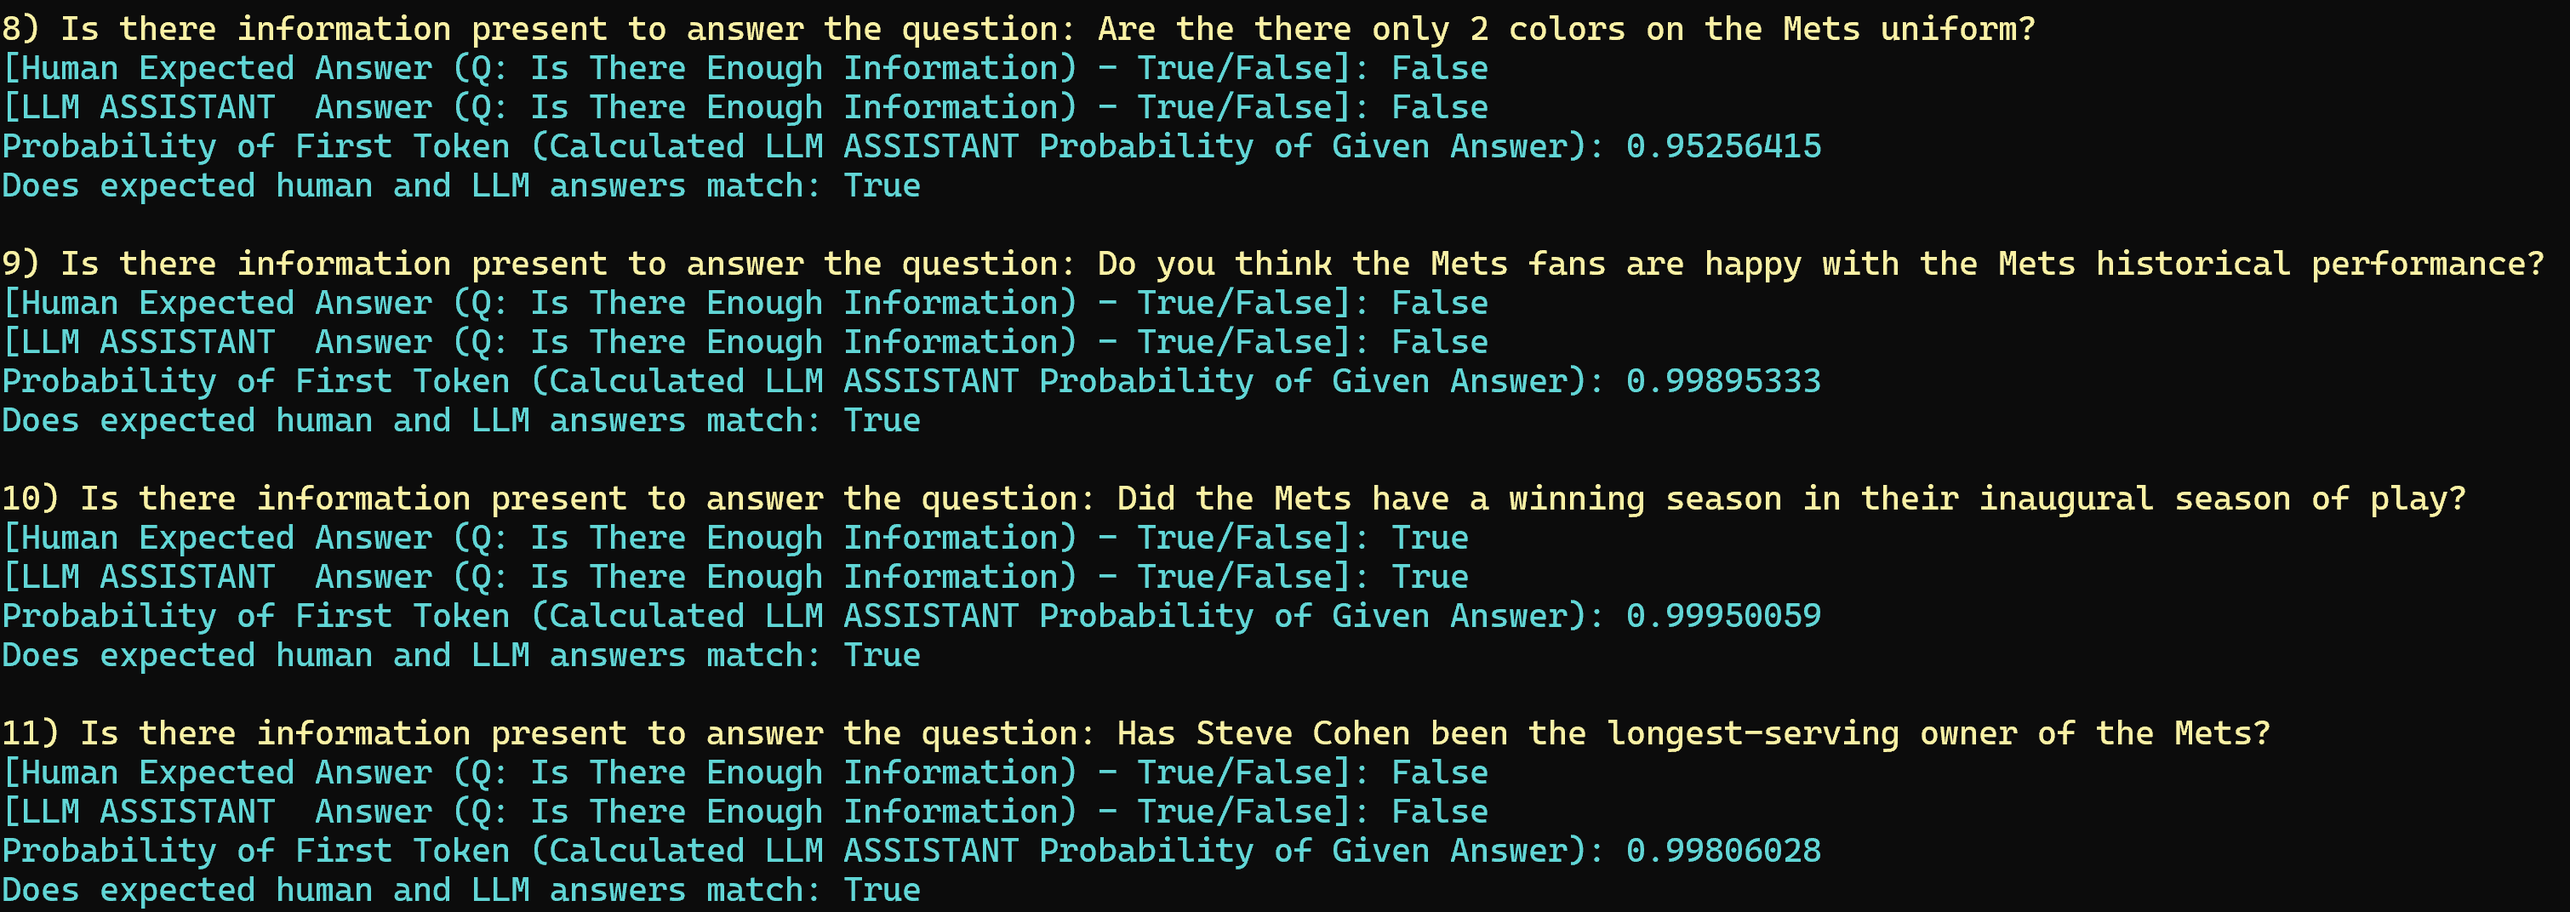
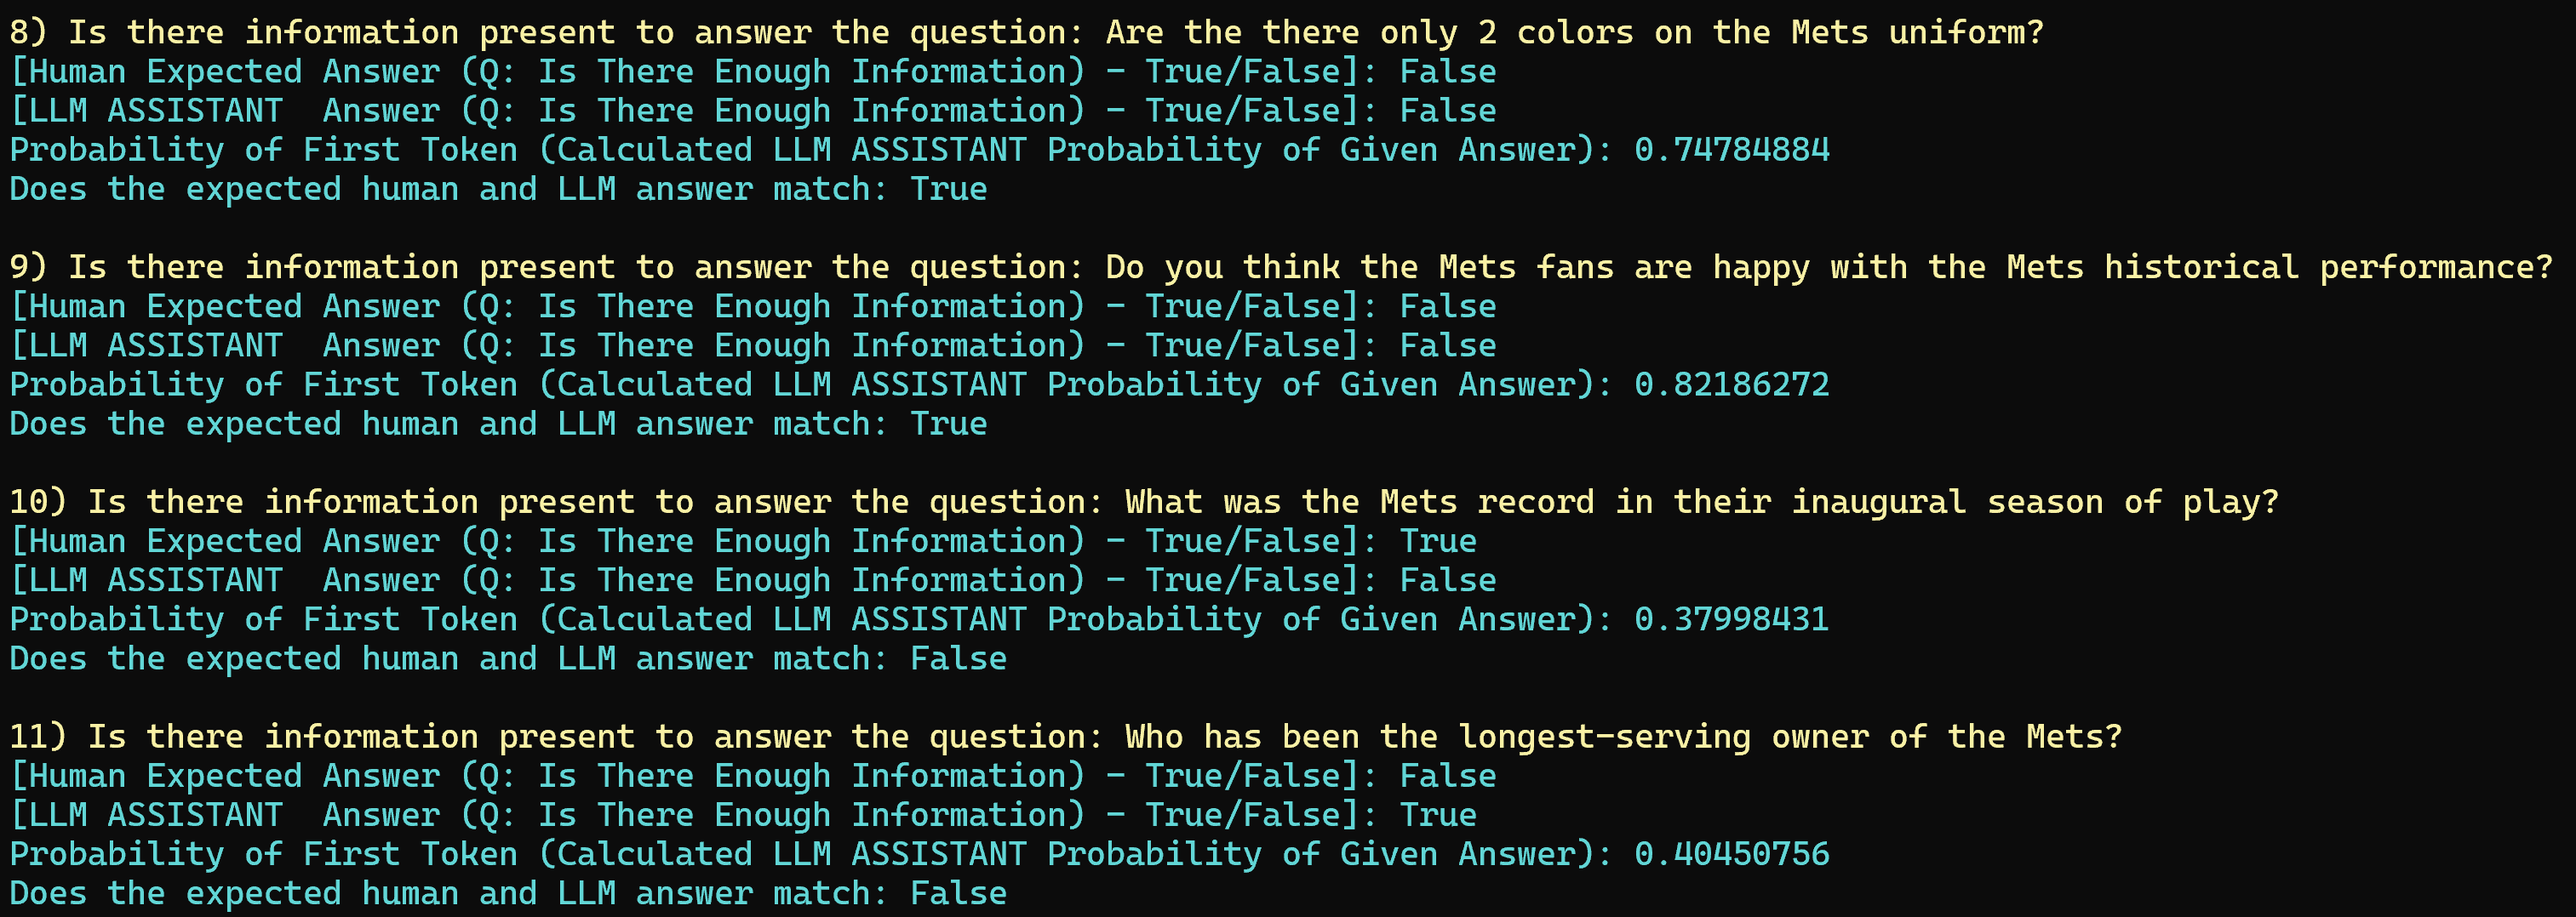
Refactored images

diff --git a/AzureOpenAILogProbs/Program.cs b/AzureOpenAILogProbs/Program.cs
@@ -164,7 +164,7 @@ namespace AzureOpenAILogProbs
                         // convert responseMessageTrueFalse.Content to bool
                         var llmResponseBool = (bool.Parse(llmResponse));
                         var doesLLMAnswerMatchHumanExpectedAnswer = (llmResponseBool == question.EnoughInformationInProvidedContext);
-                        var doAnswersMatchMessage = $"Does expected human and LLM answers match: {doesLLMAnswerMatchHumanExpectedAnswer}";
+                        var doAnswersMatchMessage = $"Does the expected human and LLM answer match: {doesLLMAnswerMatchHumanExpectedAnswer}";
                         Console.WriteLine(doAnswersMatchMessage);
 
                         if (selectedProcessingChoice == ProcessingOptions.FirstTokenProbabilityWithBrierScore)
